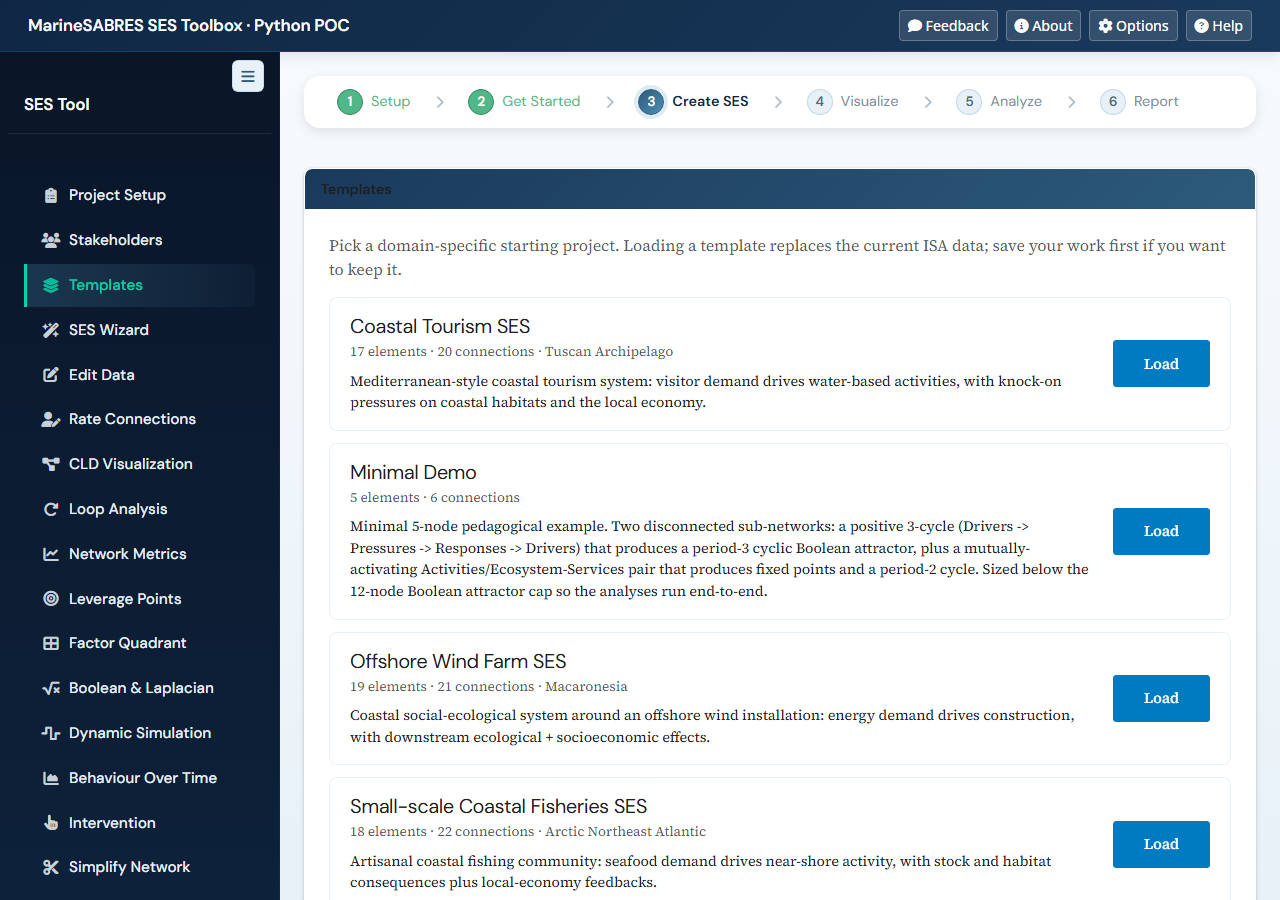
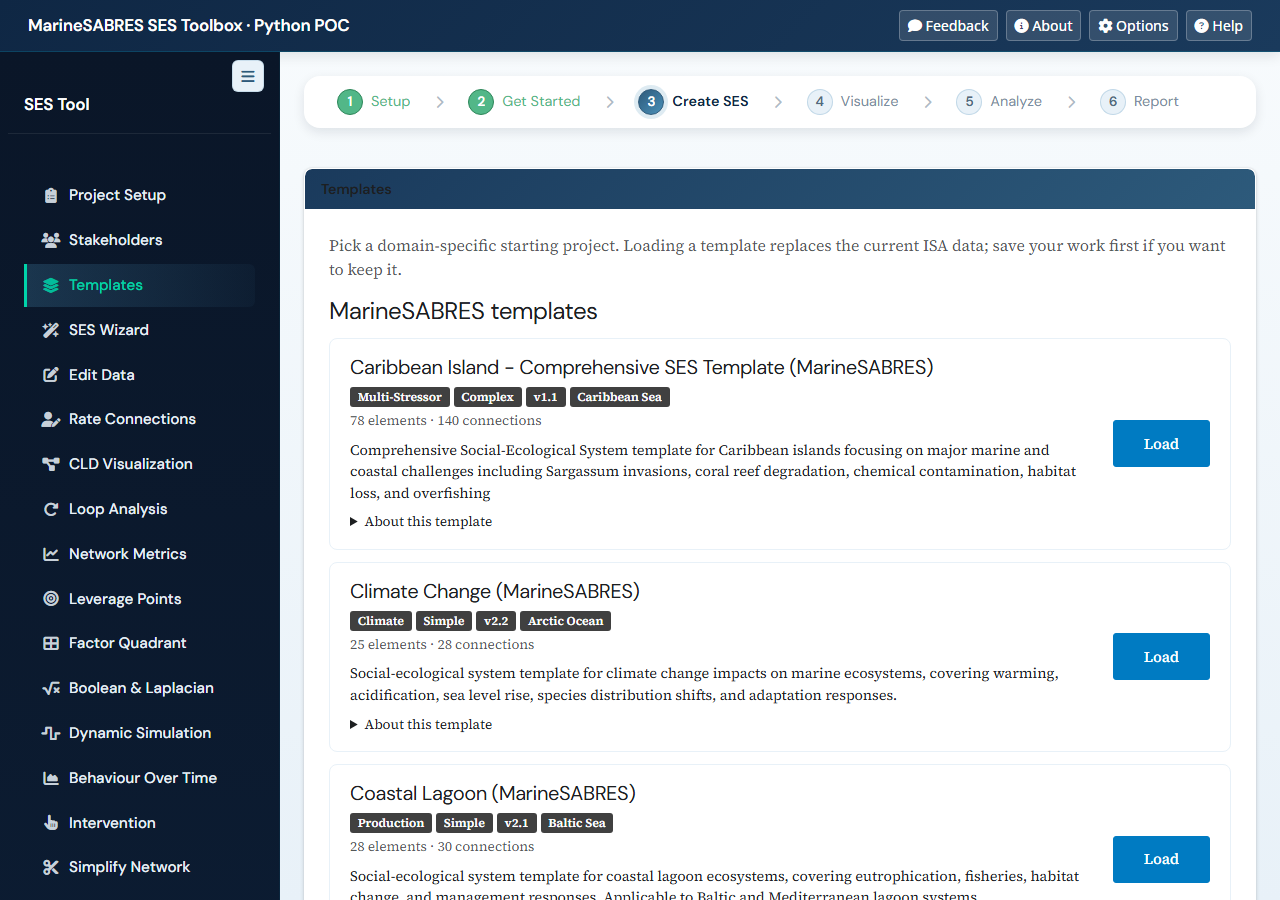
docs(release): 1.14.0 changelog, manual templates section, templates screenshot (P2)

diff --git a/README.md b/README.md
@@ -337,7 +337,7 @@ review → TDD → review → full-e2e cycle. All 9 UI languages stay in sync.
 |---|---|---|
 | **PIMS Project Setup** (`sespy/modules/pims_project.py`) | `modules/pims_module.R` (PROJECT SETUP) | Two-column form for project context: name, demonstration area, focal issue, definition statement, temporal/spatial scale, system in focus. Persists to project metadata via a parallel `project_metadata` reactive. |
 | **PIMS Stakeholders** (`sespy/modules/pims_stakeholders.py`) | `modules/pims_module.R` (STAKEHOLDERS) | Stakeholder register — name, organisation, role, interest/influence — feeding the multi-rater panel in Rate Connections. |
-| **Templates** (`sespy/modules/templates.py`) | `modules/template_ses_module.R` | Picker for built-in starter projects (Offshore Wind, Coastal Tourism, Small-scale Fisheries). |
+| **Templates** (`sespy/modules/templates.py`) | `modules/template_ses_module.R` | Picker for built-in starter projects in two groups: R's 7 curated MarineSABRES templates (badges for category, complexity, version, regional sea) and SESPy's 4 examples (Offshore Wind, Coastal Tourism, Small-scale Fisheries, Minimal Demo). |
 | **SES Wizard** (`sespy/modules/ai_isa_wizard.py`) | `modules/ai_isa_assistant_module.R` (and `ai_isa/`) | 12-step DAPSI(W)R(M) wizard with confirmation modal, live writes per step, and a stub `suggest_connections()` ready for SP3/SP4 scoring backends. |
 | **Edit Data** (`sespy/modules/isa_data_entry.py`) | `modules/isa_data_entry_module.R` | Add/remove elements & connections live; auto-IDs by DAPSIWRM type; cascading delete keeps the data validator-clean. |
 | **Rate Connections** (`sespy/modules/rate_connections.py`) | *new (QSEM multi-rater)* | Stakeholders from the PIMS register each rate a connection; a materialized-consensus model derives the scalars every analysis reads, plus a contested-edges column/filter. |
@@ -413,7 +413,7 @@ enabling the Claude backend.
 | `sespy/network.py` | `to_digraph`, `feedback_loops`, `loop_polarity`, `classify_loops`, `centrality_metrics`, `top_n_by_metric`, `leverage_scores`, `intervention_impact`, `remove_nodes`, `simplify_by_strength`, `simplify_top_n_edges` — networkx-based port of `functions/network_analysis.R` helpers. |
 | `sespy/excel_import.py` | Pandas/openpyxl-based parser with column-name fallbacks (`from`/`source`, `to`/`target`, `Name`/`Label`, etc.). Reuses the JSON validator so error stories are consistent. |
 | `sespy/report.py` | Jinja2 template + WeasyPrint (PDF) + python-docx (Word). Three export formats from one content model. |
-| `sespy/templates/` | Built-in starter projects: Offshore Wind, Coastal Tourism, Small-scale Fisheries. `list_templates()` discovers `*.json` files. |
+| `sespy/templates/` | Built-in starter projects: SESPy's examples (Offshore Wind, Coastal Tourism, Small-scale Fisheries, Minimal Demo), discovered by `list_templates()` from the top-level `*.json` files, and in `marinesabres/` R's 7 curated templates, pre-converted by `python -m scripts.sync_r_templates` and listed by `list_catalogue()` from the generated `catalogue.json`. |
 | `sespy/constants.py` | DAPSI element types, Kumu-style colors and shapes, hierarchical level numbers, font/size scales, edge colors, polarity labels. |
 | `www/sespy-skin.css` | Visual port of `bs4dash-custom.css` "Deep Ocean Scientific" theme. Tokens (`--ocean-*`, `--bio-*`, `--foam-*`, `--mist-*`) lifted verbatim; selectors re-authored for bslib's DOM. Fonts: DM Sans + Source Serif 4. |
 
@@ -557,7 +557,9 @@ hover lift. Same constraint is documented in the R `bs4dash-custom.css:452`.
 - `tests/test_report.py` — HTML structure, PDF round-trip, Word docx round-trip
 - `tests/test_autosave.py` — write/read/clear/age, corrupt-file safety
 - `tests/test_recent_projects.py` — registry add/remove/dedupe, missing-file filtering, MAX_RECENT cap
-- `tests/test_templates.py` — every template loads and validates, distinct names, populated metadata
+- `tests/test_templates.py` — every template loads and validates, distinct names, populated metadata; the MarineSABRES catalogue listing (bad entries skipped, package data)
+- `tests/test_templates_module.py` — the Templates panel in memory: group headers, badges, loading by index
+- `tests/test_r_template_catalogue.py` — the R template sync (`scripts/sync_r_templates.py`): category port, catalogue, drift guard against the pinned R fixtures, `--check`, accepted warnings
 - `tests/test_data_structure.py` — schema versioning, PIMS metadata round-trip, `WizardState` / `ConnectionSuggestion`
 - `tests/test_utils.py` — shared helpers (`next_id` gap-filling)
 - `tests/test_wizard.py` — wizard step flow, element-type map, regional-seas placeholder, stub

diff --git a/docs/MANUAL.md b/docs/MANUAL.md
@@ -125,9 +125,11 @@ Each section below names the panel as it appears in the navigation, then covers 
 
 **Purpose.** Start from a ready-made domain project instead of the sample.
 
-**Controls.** One card per template with its name, size, demonstration area and description, and a "Load" button. Loading replaces the current project, so save first if you want to keep your work; the panel says so at the top.
+**Controls.** 11 templates in two groups: "MarineSABRES templates" (the 7 curated templates of the R MarineSABRES SES Toolbox) and "SESPy examples" (SESPy's own 4). One card per template with its name, size and description, and a "Load" button. A MarineSABRES card also shows badges for its category, its complexity ("Simple" or "Complex"), its template version and its regional sea, and a collapsed "About this template" section with the template's source and usage notes. A SESPy example shows its demonstration area instead. Loading replaces the current project, so save first if you want to keep your work; the panel says so at the top.
 
-**Shipped templates.** Coastal Tourism SES (17 elements, 20 connections, Tuscan Archipelago), Minimal Demo (5 and 6, a positive three-cycle plus a mutually activating pair, useful for learning the analyses), Offshore Wind Farm SES (19 and 21, Macaronesia), Small-scale Coastal Fisheries SES (18 and 22, Arctic Northeast Atlantic).
+**Shipped templates: MarineSABRES.** R's template names with " (MarineSABRES)" appended, so they never clash with SESPy's examples: Caribbean Island - Comprehensive SES Template (78 elements, 140 connections, Caribbean Sea, complex), Climate Change (25 and 28, Arctic Ocean), Coastal Lagoon (28 and 30, Baltic Sea), Fisheries (26 and 33, Baltic Sea), Offshore Wind Energy (23 and 27, North Sea, complex), Pollution (28 and 29, Baltic Sea), Tourism (26 and 33, Mediterranean Sea). "Coastal Lagoon (MarineSABRES)" is R's aquaculture template: R names it "Coastal Lagoon", and SESPy keeps R's name. The templates are converted from R release v1.31.0: R's Measures appear as Responses, every link keeps its sign, strength and description, and its confidence (kept within SESPy's 1–5 scale); R records no delays, so every link starts as "immediate". The Caribbean template is large; analyses with a node limit (Boolean allows at most 12 nodes) say so instead of running.
+
+**Shipped templates: SESPy examples.** Coastal Tourism SES (17 elements, 20 connections, Tuscan Archipelago), Minimal Demo (5 and 6, a positive three-cycle plus a mutually activating pair, useful for learning the analyses), Offshore Wind Farm SES (19 and 21, Macaronesia), Small-scale Coastal Fisheries SES (18 and 22, Arctic Northeast Atlantic).
 
 ## 8. SES Wizard
 

diff --git a/CHANGELOG.md b/CHANGELOG.md
@@ -4,6 +4,48 @@ All notable changes to SESPy.
 
 ## [Unreleased]
 
+## [1.14.0] — 2026-10-18
+
+Roadmap P2 (curated R templates; R-parity roadmap §2 P2). Ports R
+MarineSABRES 1.21.1, 1.22.1 and 1.22.3 (the reviewed curated templates),
+against R v1.31.0 (`4b53b7d`).
+
+### Added
+
+- **R's 7 curated templates in the gallery.** The Templates panel now has
+  two groups: "MarineSABRES templates" (Caribbean Island, Climate Change,
+  Coastal Lagoon, Fisheries, Offshore Wind Energy, Pollution, Tourism — 320
+  links in total) and "SESPy examples" (SESPy's own 4). R's names carry the
+  suffix " (MarineSABRES)"; "Coastal Lagoon (MarineSABRES)" is R's
+  aquaculture template.
+- **Badges** on each MarineSABRES card: category (R's rule: Multi-Stressor,
+  Extraction, Recreation, Production, Pollution, Climate, Energy or
+  General), complexity, template version and regional sea, plus an "About
+  this template" section with the source and usage notes. Category and
+  complexity labels are translated into all 9 languages.
+- **`python -m scripts.sync_r_templates`** re-converts the templates from an
+  R git checkout (read with `git show`, never checked out) and rewrites the
+  fixtures, the pin and the R_SYNC.md block together; `--check` reports
+  drift and a unit test guards it. Off-rule links or type mismatches in a
+  future R release fail the sync unless they are explicitly accepted.
+
+### Changed
+
+- R pin moved from v1.29.0 to **v1.31.0** (`4b53b7d`); the pinned files are
+  unchanged. R's `functions/template_loader.R` is now pinned too, and a
+  parity test checks the category rule against it. R's changes since v1.29.0
+  are triaged in `docs/parity/R_SYNC.md`.
+- R template mapper hardening: `connections` that is not a list and a
+  connection that is not an object raise a clear error; integer element ids
+  (including 0) and integer connection endpoints now match.
+
+### Deliberate differences from R
+
+- No complexity filter (R's user levels come with P12) and no preview or
+  customise-before-load step (P13); templates load directly.
+- Category and complexity labels are translated (R shows the English value).
+- Template names, descriptions, sources and usage notes stay in English.
+
 ## [1.13.0] — 2026-10-17
 
 Roadmap P1a (link rules, schema v7, R template mapper; R-parity roadmap §2
